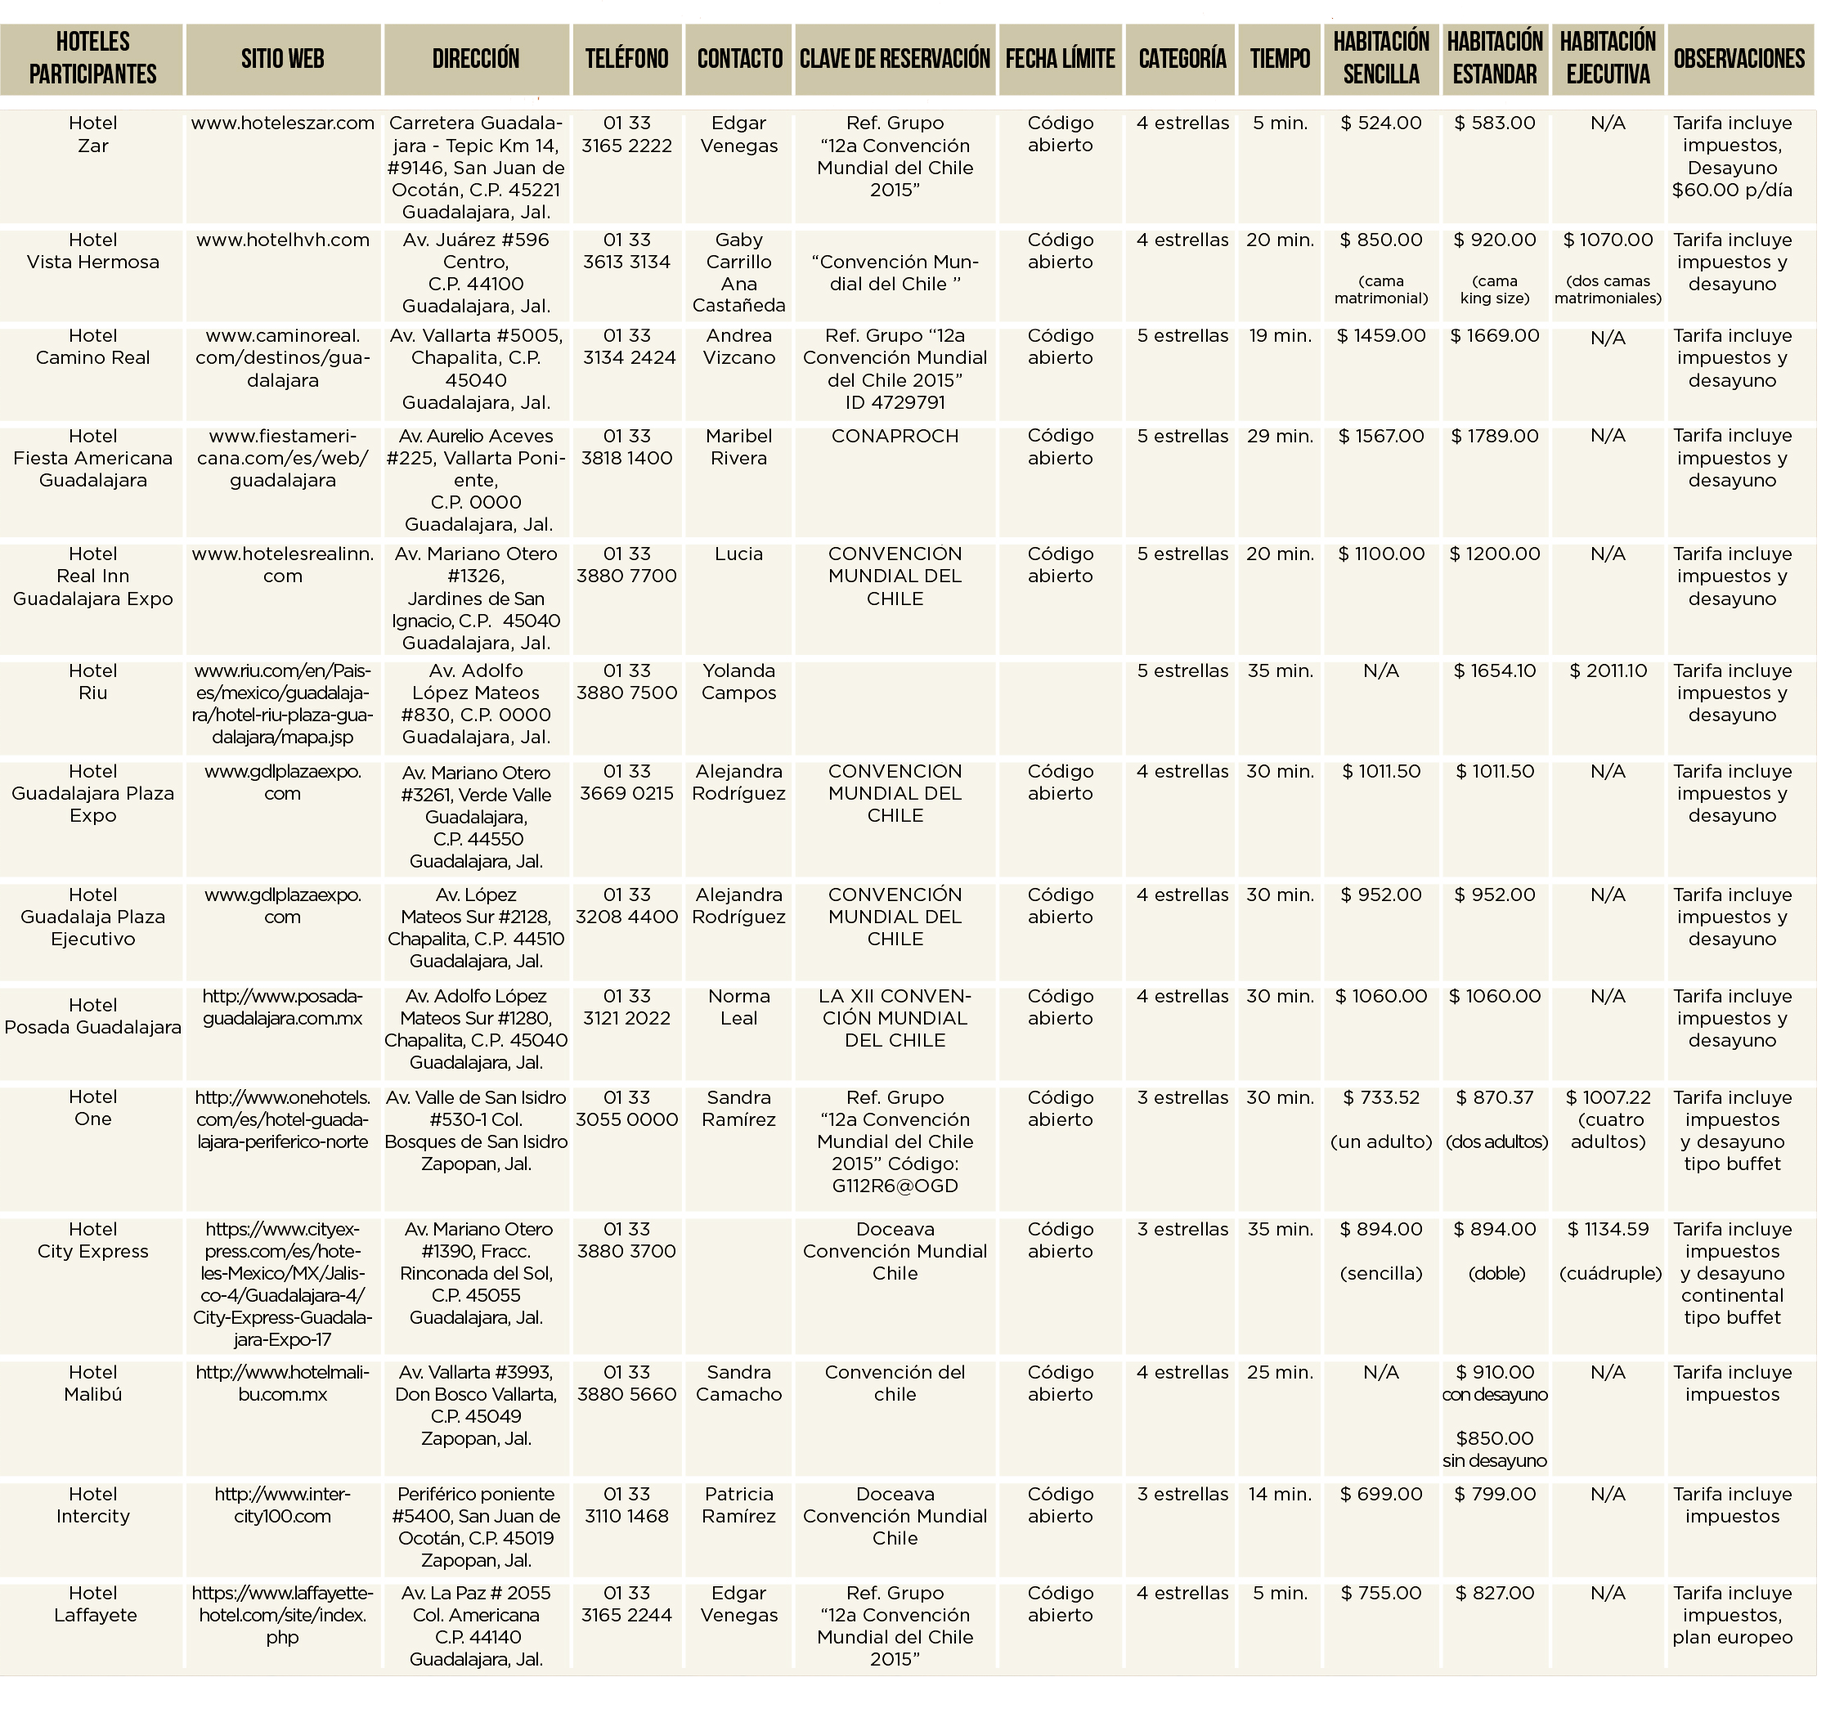
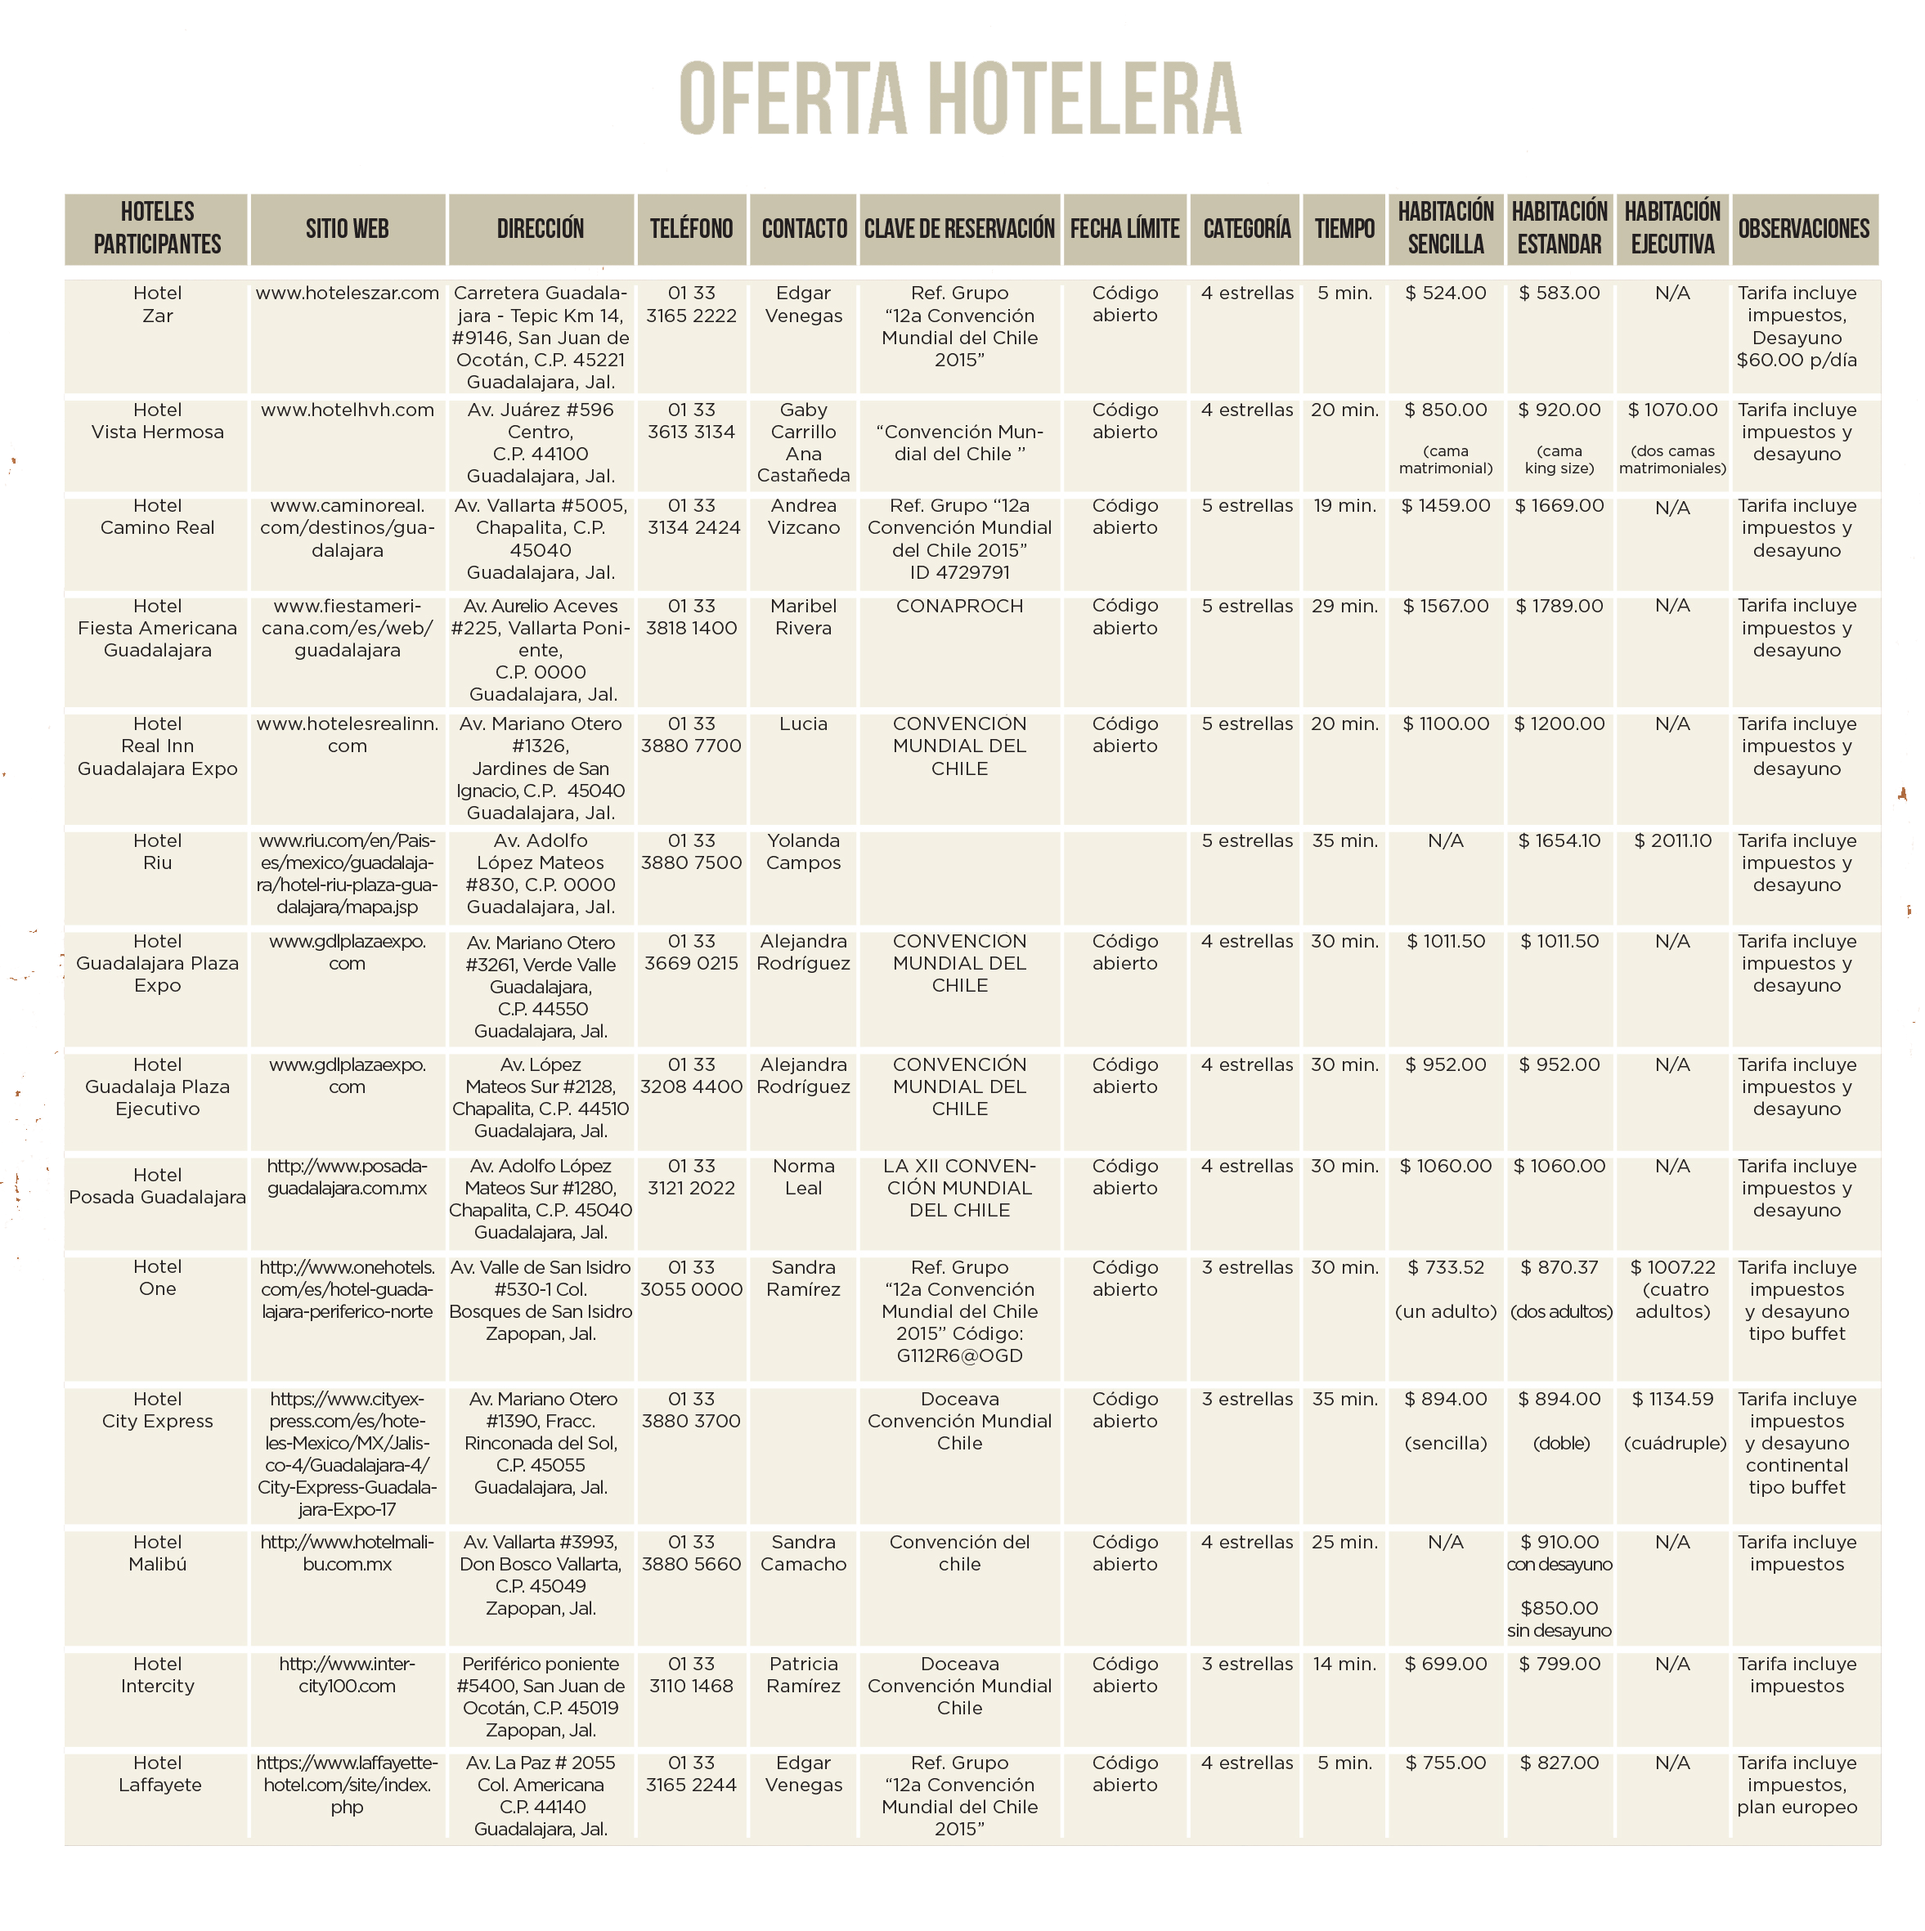
Firma y oferta hotelera
Falta curriculums y acomodo tabla

Changed region(s): [[0.0, 0.0, 1.0, 0.9928]]

diff --git a/Conaproch/Conaproch/assets/css/style.css b/Conaproch/Conaproch/assets/css/style.css
@@ -6703,3 +6703,9 @@ display:none;
             text-align:center;
             
             }
+            
+     
+.fondo_Hotel
+{
+    background-image: url(../img/fur.jpg);
+    }
